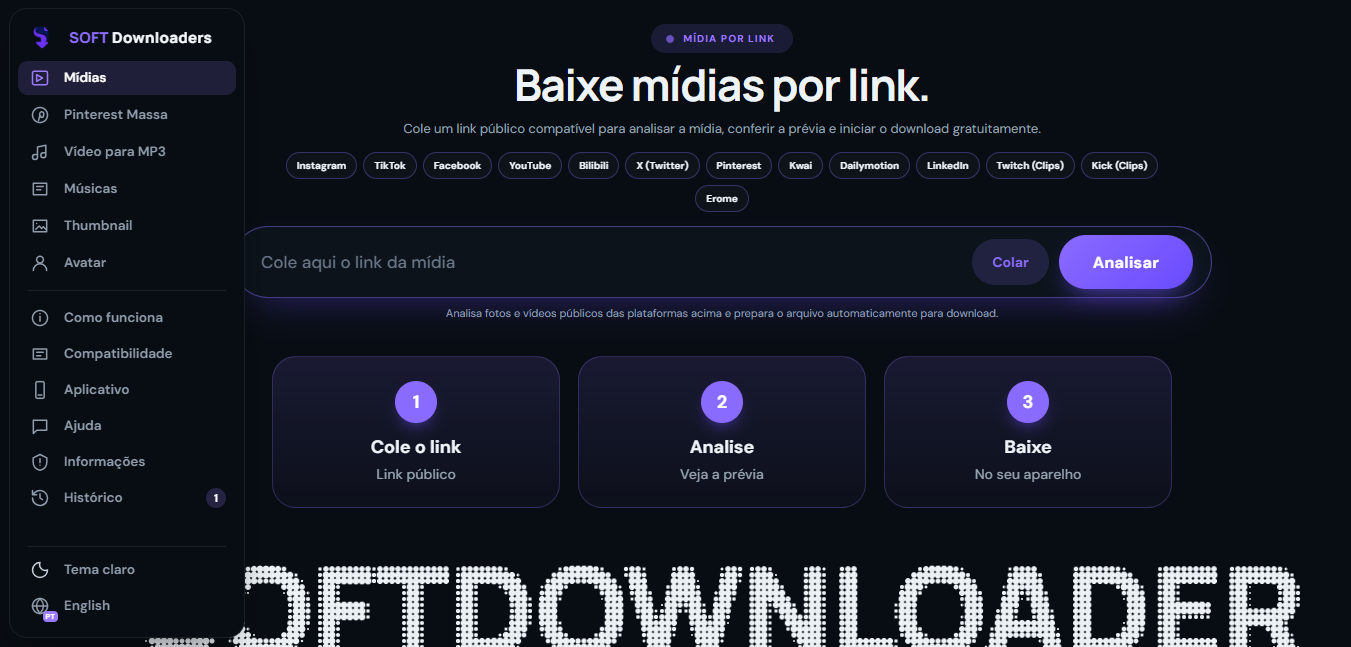
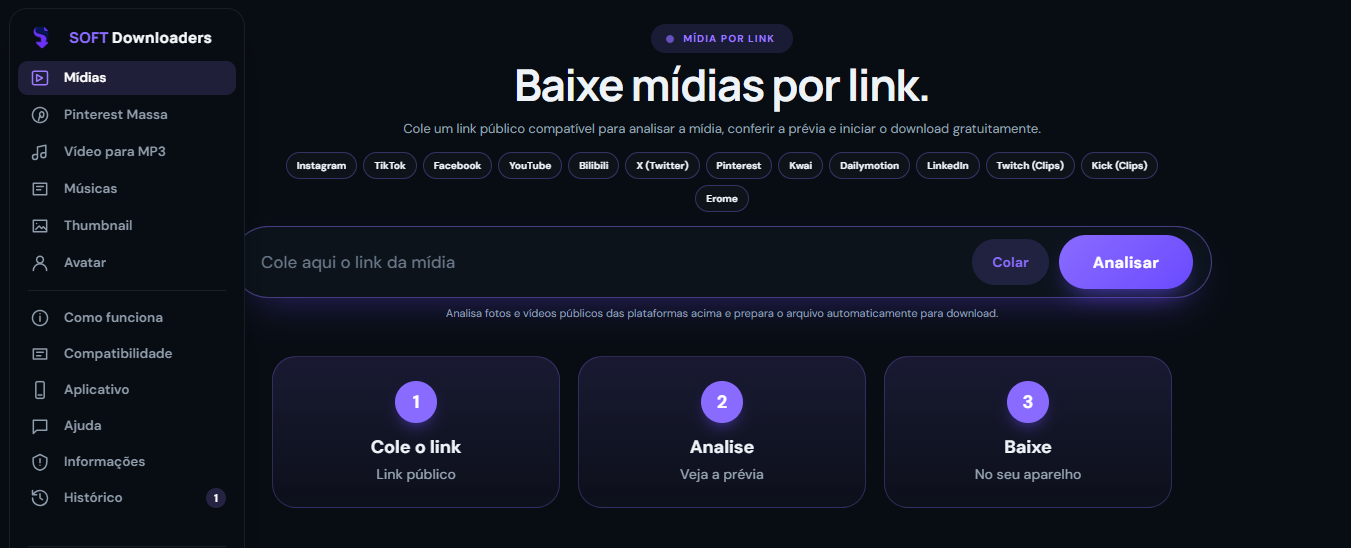
Corrige quadros de preview: print recortado, cantos fora da imagem, título em uma linha
Claude-Session: https://claude.ai/code/session_01GFycTkWGGtbYev6RiejiHw

diff --git a/style.css b/style.css
@@ -162,3 +162,13 @@ footer a:hover{color:var(--lav)}
 .proj:hover .shot .mark{transform:translate(-50%,-50%) scale(1.06);filter:none}
 .shot .mark+.ph{position:relative;top:34%}
 @media (prefers-reduced-motion:reduce){.hero-logo{opacity:1}}
+
+/* ---------- correções dos quadros de preview ---------- */
+.proj h3{font-size:clamp(1.15rem,2.3vw,1.55rem);white-space:nowrap}
+.shot{aspect-ratio:2.2/1}
+.shot img:not(.mark){inset:12px;width:calc(100% - 24px);height:calc(100% - 24px);object-fit:contain;object-position:center;filter:none}
+.proj:hover .shot img:not(.mark){transform:none}
+.shot .mark{width:20%;opacity:.22;top:40%}
+.shot .mark+.ph{top:30%;font-size:.65rem}
+.proj:hover .shot .mark{transform:translate(-50%,-50%)}
+@media (max-width:760px){.proj h3{white-space:normal}}
